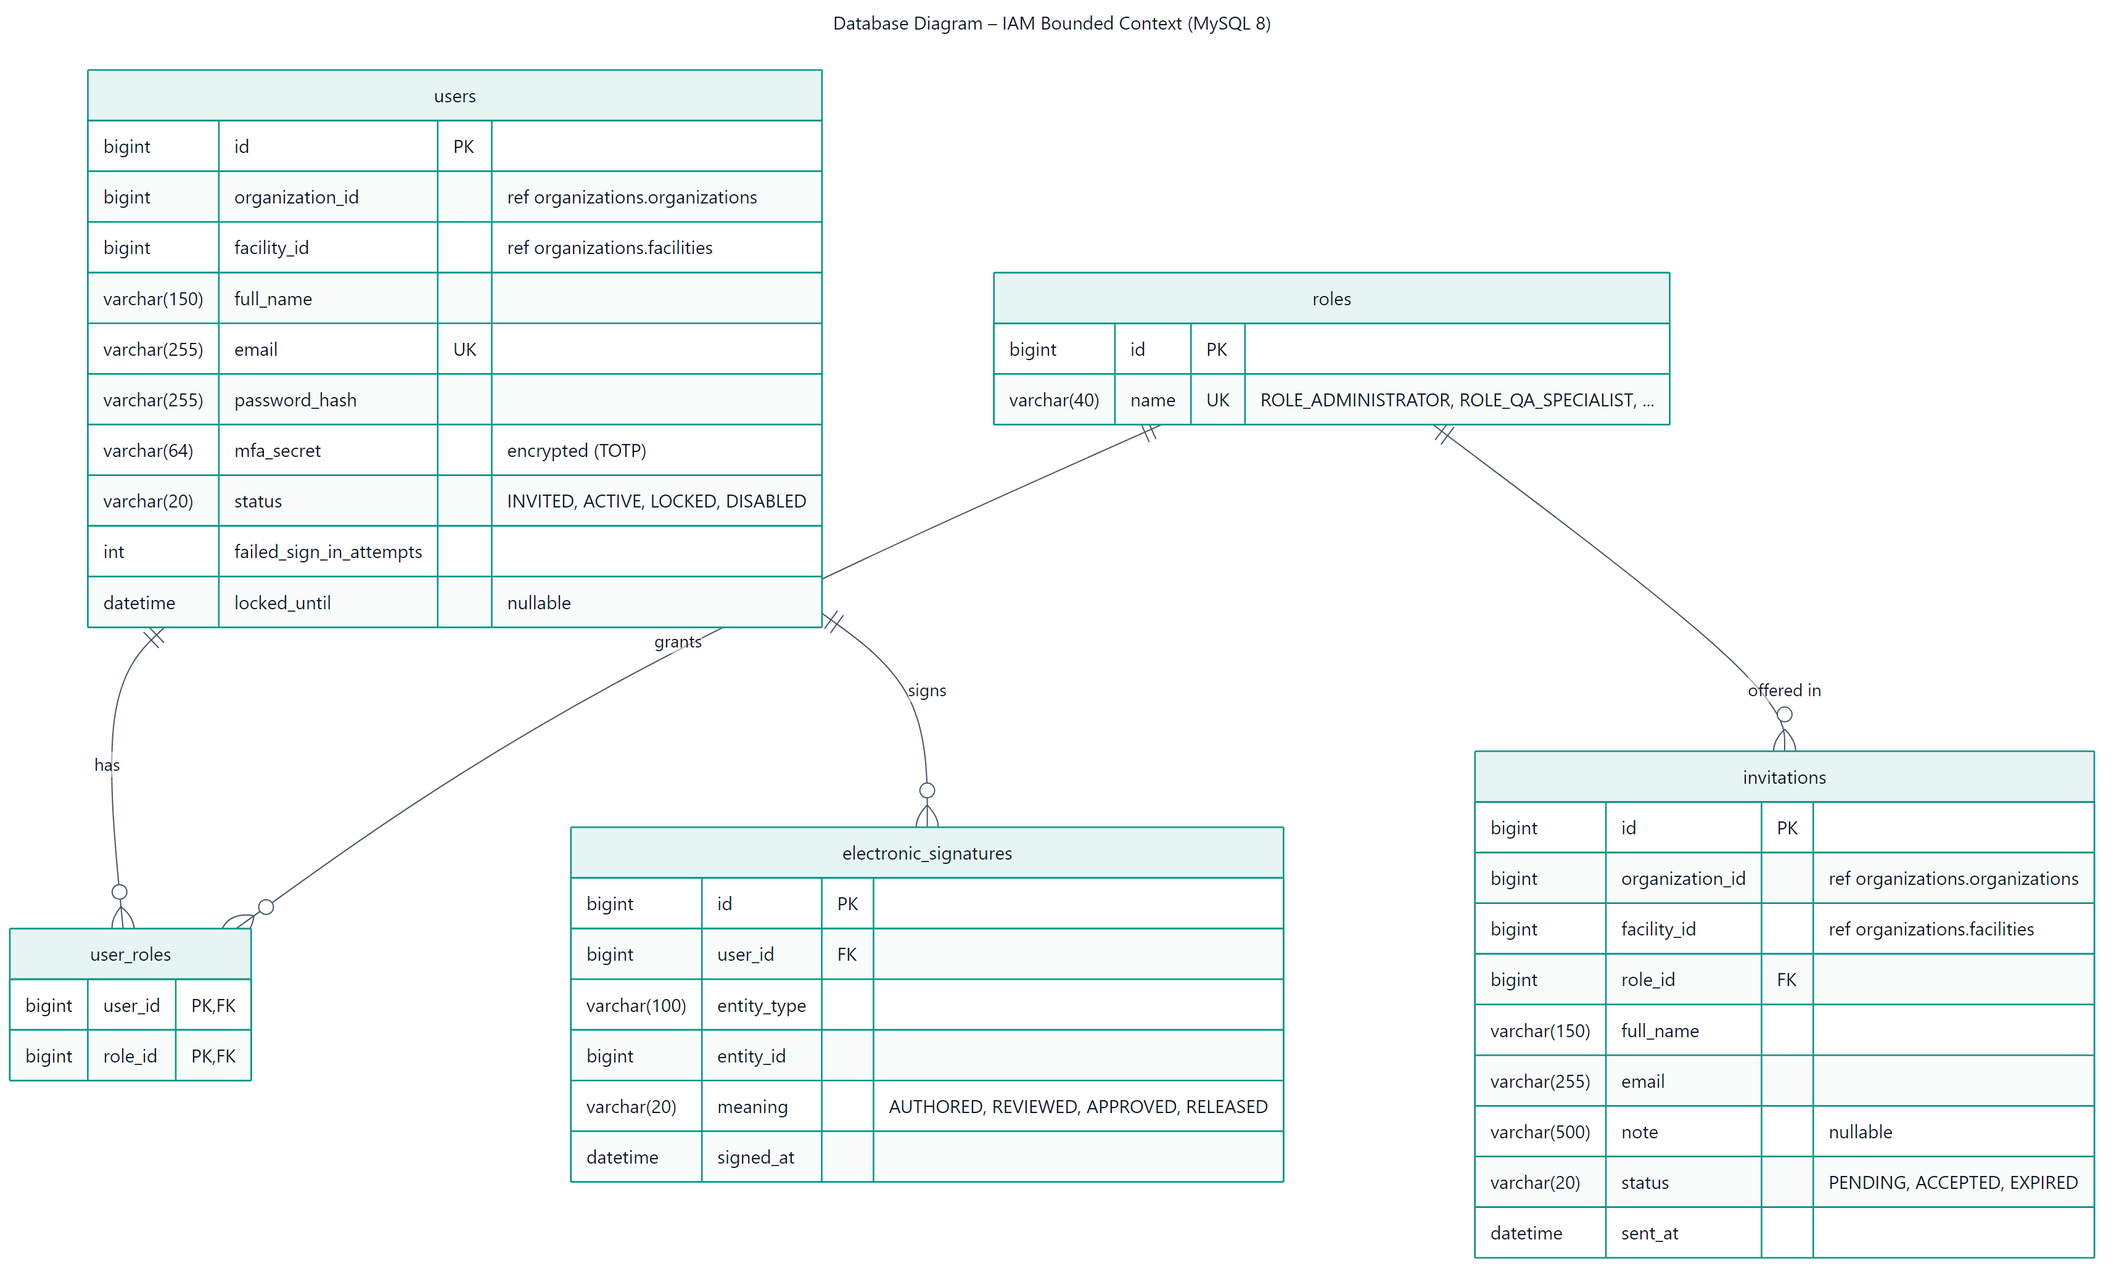
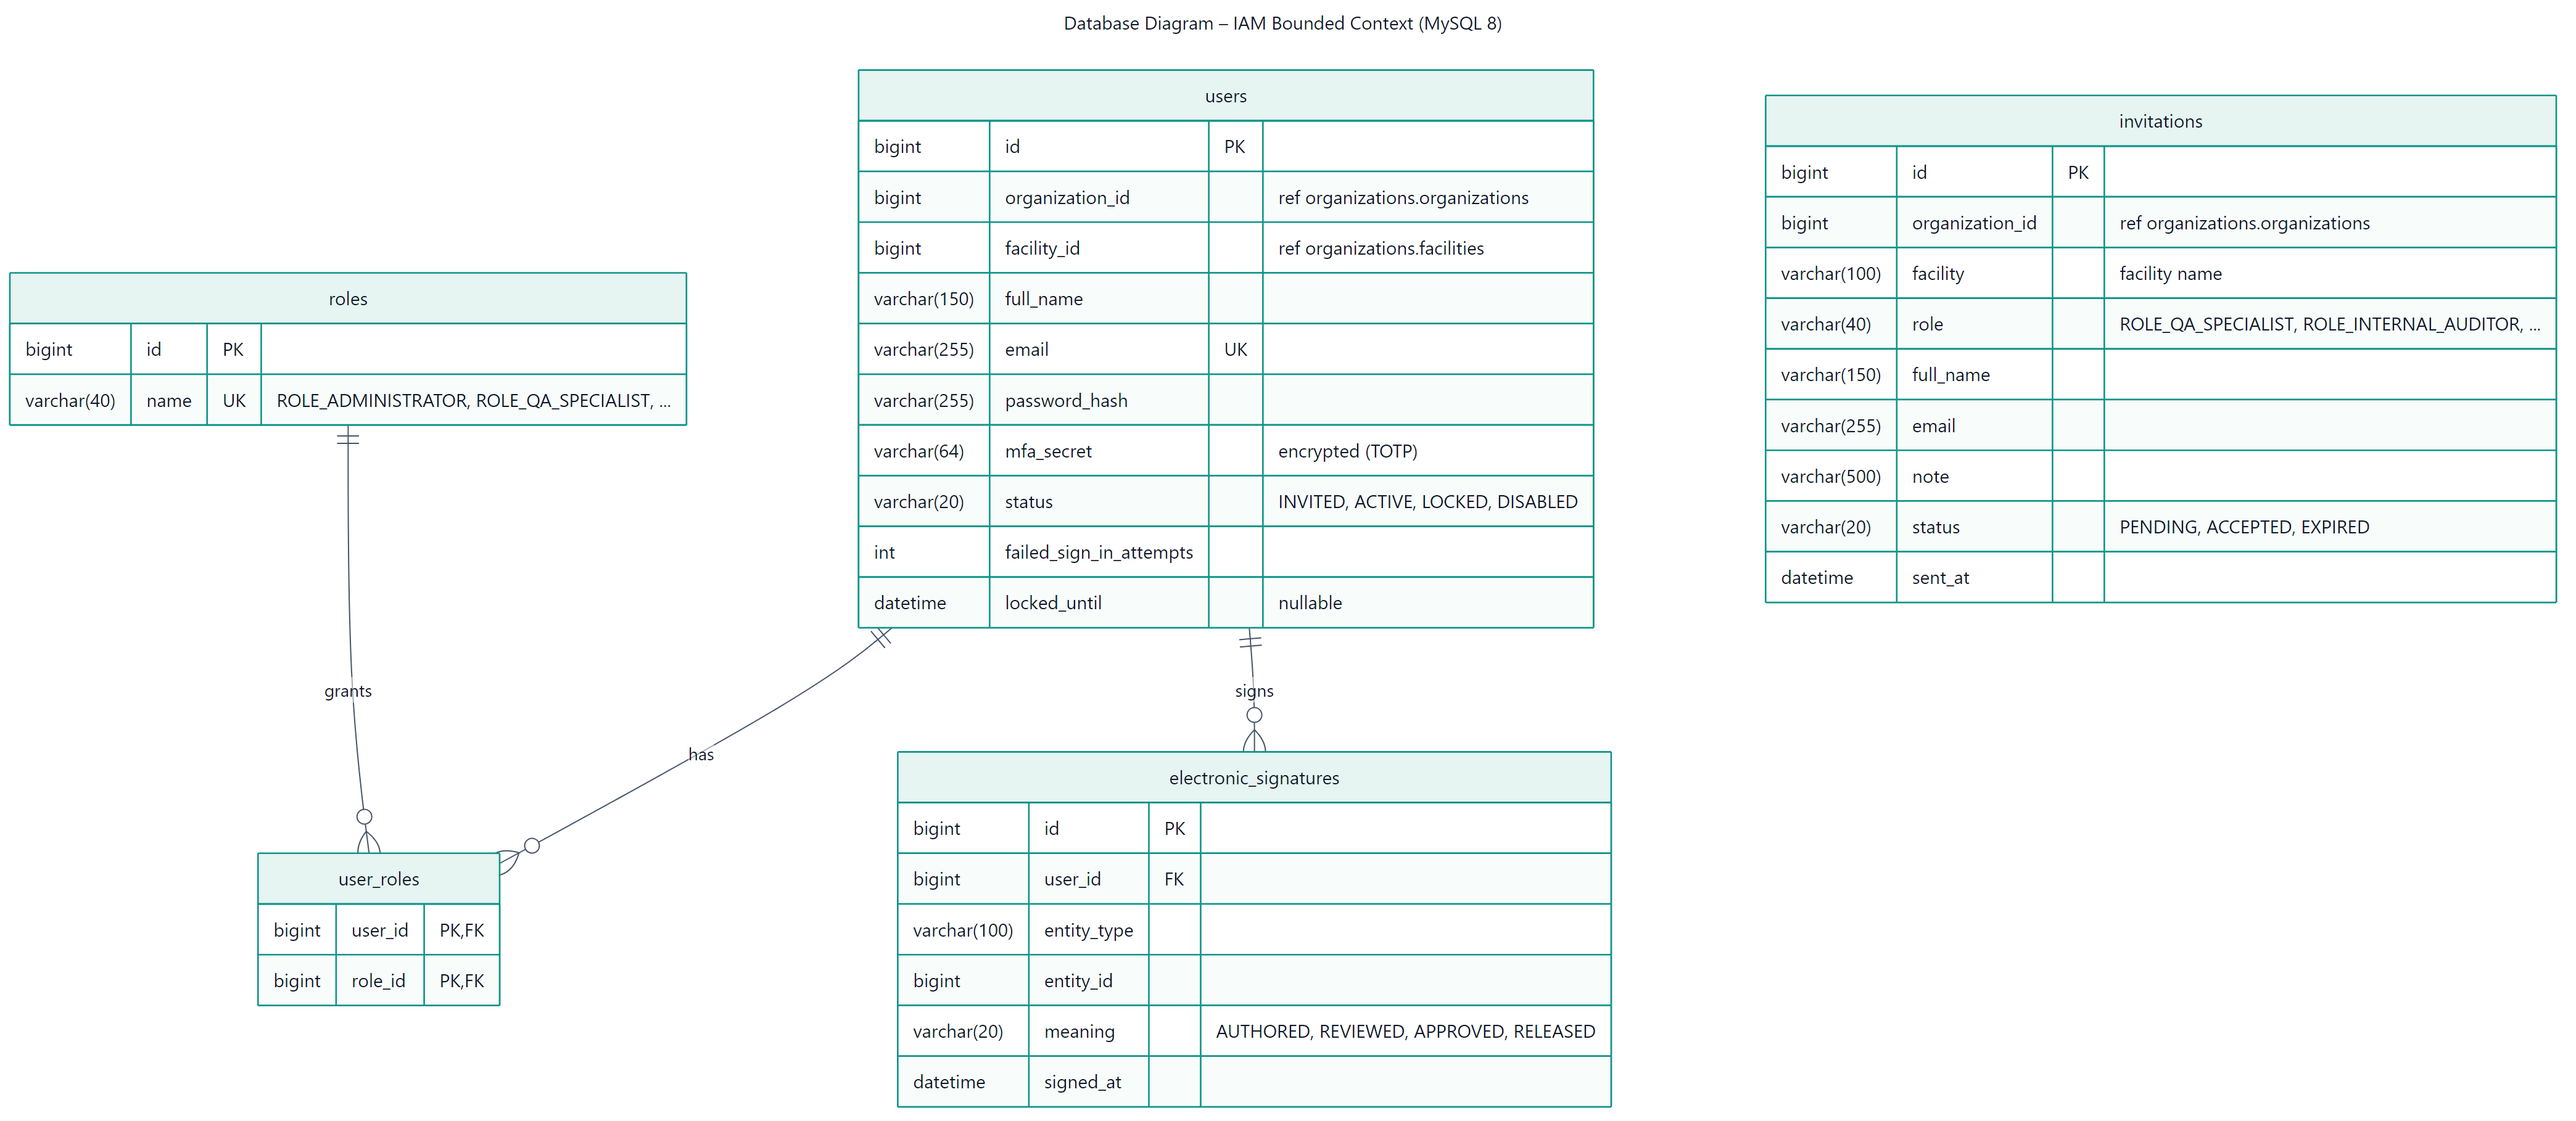
docs(report): close the sprint 3 backlog and align the quality and iam diagrams with the api

diff --git a/report/15-product-implementation-validation-and-deployment.md b/report/15-product-implementation-validation-and-deployment.md
@@ -1065,7 +1065,9 @@ En el Sprint 3 se consideraron el Website y la Web Application y, en los RESTful
 
 #### 5.2.3.3. Sprint Backlog 3
 
-El objetivo del Sprint fue entregar la primera versión desplegada de los RESTful Web Services. El Sprint Backlog 3 junta tres bloques: las mejoras del Website y de la Web Application hechas desde el 18/10 (T184 a T198), las tareas de los Web Services por Technical Story (T137 a T165) y la autenticación con JWT (TS02, T199 a T201). Una tarea está en *Done* solo cuando su rama se unió a `develop`; lo que no se termine pasa al Sprint 4. Al cierre del Sprint hay 31 tareas en *Done*, 7 en *In-Process* y 9 en *To-do*, con 177 horas estimadas en total.
+El objetivo del Sprint fue entregar la primera versión desplegada de los RESTful Web Services. El Sprint Backlog 3 junta tres bloques: las mejoras del Website y de la Web Application hechas desde el 18/10 (T184 a T198), las tareas de los Web Services por Technical Story (T137 a T165) y la autenticación con JWT (TS02, T199 a T201). Una tarea está en *Done* solo cuando su rama se unió a `develop`; lo que no se termine pasa al Sprint 4. Al cierre del Sprint hay 42 tareas en *Done*, 2 en *In-Process* y 3 en *To-do*, con 177 horas estimadas en total.
+
+![Sprint Backlog 3 en Jira](assets/img/chapter5/evidencia/jira-sprint3.png)
 
 **Enlace al board en Jira:** https://doofplus.atlassian.net/jira/software/projects/UPC/boards/3
 
@@ -1077,7 +1079,7 @@ El objetivo del Sprint fue entregar la primera versión desplegada de los RESTfu
 | TS12 | API de organizaciones y consultas de contacto | T138 | Organizations: servicios de aplicación | Implementar los command services y query services de registro de la organización, perfiles y consultas de contacto. | 3 | Cobades Zamora, Yhoshua Hebert | Done |
 | TS12 | API de organizaciones y consultas de contacto | T139 | Organizations: endpoints REST | Exponer /api/v1/organizations, /api/v1/user-profiles y POST /api/v1/contact-inquiries con resources, assemblers y documentación OpenAPI. | 4 | Cobades Zamora, Yhoshua Hebert | Done |
 | TS12 | API de organizaciones y consultas de contacto | T140 | Organizations: fachada ACL | Implementar OrganizationsContextFacade para que Subscriptions consulte la organización sin acceder a su modelo. | 2 | Cobades Zamora, Yhoshua Hebert | To-do |
-| TS12 | API de organizaciones y consultas de contacto | T141 | Web App: registro de organización y contacto contra el API | Reemplazar la Fake API en el módulo organizations de la Web Application (US50, US04). | 3 | Cobades Zamora, Yhoshua Hebert | To-do |
+| TS12 | API de organizaciones y consultas de contacto | T141 | Web App: registro de organización y contacto contra el API | Reemplazar la Fake API en el módulo organizations de la Web Application (US50, US04). | 3 | Cobades Zamora, Yhoshua Hebert | Done |
 | TS09 | API de suscripciones y pagos | T142 | Subscriptions: revisión e integración en develop | Revisar feature/subscriptions, corregir observaciones y fusionarla en develop. | 2 | Rojas Ambicho, Nestor Daniel | Done |
 | TS09 | API de suscripciones y pagos | T143 | Subscriptions: pago con Niubiz | Agregar el pago de la suscripción: POST /api/v1/subscriptions/{id}/payments con el sandbox de Niubiz; responde 503 si la pasarela no está disponible y no registra el pago. | 5 | Rojas Ambicho, Nestor Daniel | Done |
 | TS09 | API de suscripciones y pagos | T144 | Subscriptions: renovación | Agregar la renovación de la suscripción (US53) junto a la activación y cancelación existentes. | 2 | Rojas Ambicho, Nestor Daniel | Done |
@@ -1087,20 +1089,20 @@ El objetivo del Sprint fue entregar la primera versión desplegada de los RESTfu
 | TS07 | API de operaciones de laboratorio | T148 | Manufacturing: endpoints de productos y fórmulas | Servicios y endpoints /api/v1/products y /api/v1/master-formulas con documentación OpenAPI (US35, US36). | 4 | Zavaleta Gutierrez, Rodolfo Martin | Done |
 | TS07 | API de operaciones de laboratorio | T149 | IoT Monitoring: equipos, calibraciones y mantenimientos | Servicios y endpoints /api/v1/equipment con calibraciones y mantenimientos; DELETE responde 409 si el equipo está asociado a un lote en curso (US37, US38, US39). | 5 | Angulo Ramírez, Marcelo Martín | In-Process |
 | TS07 | API de operaciones de laboratorio | T150 | IoT Monitoring: sensores y telemetría | Servicios y endpoints /api/v1/sensors para el inventario de sensores (US23) y POST /api/v1/telemetry para recibir las lecturas de ThingsBoard con X-Api-Key; una lectura fuera de rango abre una alerta. | 3 | Angulo Ramírez, Marcelo Martín | Done |
-| TS07 | API de operaciones de laboratorio | T151 | Web App: productos, fórmulas y equipos contra el API | Reemplazar la Fake API en los módulos manufacturing (productos y fórmulas) e iot-monitoring (equipos y dispositivos). | 3 | Angulo Ramírez, Marcelo Martín | To-do |
+| TS07 | API de operaciones de laboratorio | T151 | Web App: productos, fórmulas y equipos contra el API | Reemplazar la Fake API en los módulos manufacturing (productos y fórmulas) e iot-monitoring (equipos y dispositivos). | 3 | Angulo Ramírez, Marcelo Martín | Done |
 | TS03 | API de trazabilidad de lotes | T152 | Manufacturing: órdenes, lotes y materias primas (dominio) | Implementar los aggregates ProductionOrder, ProductionBatch y RawMaterialLot con sus estados y repositorios JPA. | 5 | Zavaleta Gutierrez, Rodolfo Martin | Done |
 | TS03 | API de trazabilidad de lotes | T153 | Manufacturing: endpoints de órdenes y lotes | Endpoints /api/v1/production-orders y /api/v1/production-batches: registro (409 si el número de lote ya existe), cambio de estado con los estados de la Web Application (start, resume, release y progreso), GET /{batchId} con su línea de tiempo, y registro de las incidencias, eventos y consumos de cada lote (US57, US14, US15, US16). | 5 | Zavaleta Gutierrez, Rodolfo Martin | Done |
 | TS03 | API de trazabilidad de lotes | T154 | Manufacturing: recepción y asociación de materias primas | Endpoints de recepción de materias primas, que dejan el lote en SAMPLING/PENDING, y su asociación a un lote de producción (US58, US17). | 3 | Cobades Zamora, Yhoshua Hebert | Done |
 | TS03 | API de trazabilidad de lotes | T155 | Manufacturing: incidencias y escalamiento a Calidad | Registrar incidencias de un lote y publicar el domain event que Quality usa para abrir una desviación (US56). | 3 | Angulo Ramírez, Marcelo Martín | In-Process |
 | TS03 | API de trazabilidad de lotes | T156 | Manufacturing: fachada ACL | Implementar ManufacturingContextFacade para que Quality e IoT Monitoring consulten lotes y equipos. | 2 | Cobades Zamora, Yhoshua Hebert | To-do |
-| TS03 | API de trazabilidad de lotes | T157 | Web App: trazabilidad de lotes contra el API | Reemplazar la Fake API en el módulo manufacturing (órdenes, lotes, materias primas e incidencias). | 4 | Cobades Zamora, Yhoshua Hebert | To-do |
-| TS10 | API de documentación de calidad | T158 | Quality: servicios de documentación | Implementar los command y query services de QualityDocument: registro, nuevas versiones y aprobación (US09, US10, US12, US13). | 4 | Flores Martinez, Ricardo Andres | In-Process |
+| TS03 | API de trazabilidad de lotes | T157 | Web App: trazabilidad de lotes contra el API | Reemplazar la Fake API en el módulo manufacturing (órdenes, lotes, materias primas e incidencias). | 4 | Cobades Zamora, Yhoshua Hebert | Done |
+| TS10 | API de documentación de calidad | T158 | Quality: servicios de documentación | Implementar los command y query services de QualityDocument: registro, nuevas versiones y aprobación (US09, US10, US12, US13). | 4 | Flores Martinez, Ricardo Andres | Done |
 | TS10 | API de documentación de calidad | T159 | Quality: endpoints de documentación | Implementar QualityDocumentController: POST /api/v1/quality-documents responde 201 con la versión 1.0 y GET /{id} inexistente responde 404; documentación OpenAPI. | 3 | Flores Martinez, Ricardo Andres | Done |
-| TS10 | API de documentación de calidad | T160 | Web App: documentación de calidad contra el API | Reemplazar la Fake API en las vistas de protocolos, SOP y versiones del módulo quality. | 3 | Cobades Zamora, Yhoshua Hebert | To-do |
-| TS11 | API de desviaciones y CAPA | T161 | Quality: servicios de desviaciones y CAPA | Implementar los servicios de Deviation, CapaPlan y CapaAction: registro, causa raíz, acciones y cierre (US18, US19, US20, US21). | 5 | Flores Martinez, Ricardo Andres | In-Process |
-| TS11 | API de desviaciones y CAPA | T162 | Quality: endpoints de desviaciones y CAPA | Implementar DeviationController, CapaPlanController y CapaActionController; PATCH /api/v1/deviations/{id}/close sin causa raíz responde 422. | 4 | Flores Martinez, Ricardo Andres | In-Process |
+| TS10 | API de documentación de calidad | T160 | Web App: documentación de calidad contra el API | Reemplazar la Fake API en las vistas de protocolos, SOP y versiones del módulo quality. | 3 | Cobades Zamora, Yhoshua Hebert | Done |
+| TS11 | API de desviaciones y CAPA | T161 | Quality: servicios de desviaciones y CAPA | Implementar los servicios de Deviation, CapaPlan y CapaAction: registro, causa raíz, acciones y cierre (US18, US19, US20, US21). | 5 | Flores Martinez, Ricardo Andres | Done |
+| TS11 | API de desviaciones y CAPA | T162 | Quality: endpoints de desviaciones y CAPA | Implementar DeviationController, CapaPlanController y CapaActionController; PATCH /api/v1/deviations/{id}/close sin causa raíz responde 422. | 4 | Flores Martinez, Ricardo Andres | Done |
 | TS11 | API de desviaciones y CAPA | T163 | Quality: desviación desde incidencia de Producción | Policy que abre una desviación cuando Manufacturing escala una incidencia (US56). | 2 | Flores Martinez, Ricardo Andres | To-do |
-| TS11 | API de desviaciones y CAPA | T164 | Web App: desviaciones y CAPA contra el API | Reemplazar la Fake API en las vistas de desviaciones y CAPA del módulo quality. | 3 | Cobades Zamora, Yhoshua Hebert | To-do |
+| TS11 | API de desviaciones y CAPA | T164 | Web App: desviaciones y CAPA contra el API | Reemplazar la Fake API en las vistas de desviaciones y CAPA del módulo quality. | 3 | Cobades Zamora, Yhoshua Hebert | Done |
 | — | Tareas técnicas | T165 | Despliegue del RESTful API | Publicar el RESTful API en Render con la base de datos MySQL en Railway y la documentación Swagger accesible; configurar la URL del API en la Web Application. | 4 | Rojas Ambicho, Nestor Daniel | Done |
 | US48 | Acceso por segmento a la Web Application | T184 | Website: sección Call to action | Implementar la sección Call to action con sus estilos y sus textos en en.json y es.json. | 3 | Zavaleta Gutierrez, Rodolfo Martin | Done |
 | US48 | Acceso por segmento a la Web Application | T185 | Website: CTA por segmento y enlaces a la Web App | Mostrar un CTA por segmento y enlazar los botones de acceso y registro con el entorno correspondiente de la Web Application. | 3 | Rojas Ambicho, Nestor Daniel | Done |
@@ -1117,9 +1119,9 @@ El objetivo del Sprint fue entregar la primera versión desplegada de los RESTfu
 | — | Tareas técnicas | T196 | Web App: release v1.1.0 y despliegue en Firebase | Preparar release/v1.1.0 y publicar la Web Application en Firebase Hosting. | 2 | Cobades Zamora, Yhoshua Hebert | Done |
 | — | Tareas técnicas | T197 | Platform: configuración del proyecto y capa shared | Crear el proyecto Spring Boot con su configuración, OpenAPI y la capa shared. | 6 | Zavaleta Gutierrez, Rodolfo Martin | Done |
 | — | Tareas técnicas | T198 | Platform: shared con Result y ApplicationError | Agregar Result, ApplicationError y los assemblers de errores a la capa shared. | 6 | Rojas Ambicho, Nestor Daniel | Done |
-| TS02 | Autenticación JWT en el RESTful API | T199 | IAM: dominio y persistencia de User y Role | Implementar los aggregates User y Role con sus repositorios JPA y la carga inicial de roles. | 10 | Cobades Zamora, Yhoshua Hebert | In-Process |
-| TS02 | Autenticación JWT en el RESTful API | T200 | IAM: sign-up y sign-in con JWT | Exponer sign-up y sign-in que devuelven un JWT y filtrar las rutas por rol. | 10 | Cobades Zamora, Yhoshua Hebert | In-Process |
-| TS02 | Autenticación JWT en el RESTful API | T201 | Web App: sign-in contra el API | Iniciar sesión en la Web Application contra el API y enviar el token en cada petición. | 6 | Cobades Zamora, Yhoshua Hebert | To-do |
+| TS02 | Autenticación JWT en el RESTful API | T199 | IAM: dominio y persistencia de User y Role | Implementar los aggregates User y Role con sus repositorios JPA y la carga inicial de roles. | 10 | Cobades Zamora, Yhoshua Hebert | Done |
+| TS02 | Autenticación JWT en el RESTful API | T200 | IAM: sign-up y sign-in con JWT | Exponer sign-up y sign-in que devuelven un JWT y filtrar las rutas por rol. | 10 | Cobades Zamora, Yhoshua Hebert | Done |
+| TS02 | Autenticación JWT en el RESTful API | T201 | Web App: sign-in contra el API | Iniciar sesión en la Web Application contra el API y enviar el token en cada petición. | 6 | Cobades Zamora, Yhoshua Hebert | Done |
 
 #### 5.2.3.4. Development Evidence for Sprint Review
 

diff --git a/report/14-product-design.md b/report/14-product-design.md
@@ -1239,6 +1239,7 @@ El diseño orientado a objetos traduce los aggregates del Design-Level EventStor
 - Los nombres siguen la Google Java Style Guide: clases en PascalCase, atributos y métodos en camelCase y constantes de enumeraciones en UPPER_SNAKE_CASE. Los getters se generan con Lombok y no se muestran.
 - Los cambios de estado se solicitan con commands (`CreateBatchCommand`, `CloseDeviationCommand`, etc.) atendidos por command services, que devuelven `Result<T, ApplicationError>` en lugar de lanzar excepciones; las consultas usan query services. Los repositorios son interfaces del dominio implementadas con Spring Data JPA en la capa de infraestructura.
 - Las relaciones entre contextos se modelan por identificador o por código de negocio (`userId`, `batchCode`) y no por referencia directa, respetando los límites de cada bounded context.
+- En Quality & Compliance, las personas (autor, responsable, analista, revisor, actor) se guardan por su nombre, porque la Web Application muestra el nombre y solo los administradores pueden leer los usuarios de IAM; los registros relacionados se enlazan por su código (`sourceDeviation`, `capaCode`, `auditCode`), por lo que `CapaAction` y `AuditFinding` son aggregates propios. En IAM, la invitación guarda la sede por su nombre y el rol como un valor de `Roles`.
 - Los diagramas reflejan el modelo que implementan la Web Application y el RESTful API. Respecto de los aggregates del Design-Level EventStorming, `Plant` pasó a llamarse `Facility`, `IoTDevice` y `TelemetryReading` pasaron a `Sensor` y `Reading` (los límites de cada sensor reemplazan a las reglas de alerta), `BatchReview` y `ReleaseCertificate` se integraron en `BatchRelease`, las versiones de un documento se guardan como filas de `QualityDocument`, `AuditTrailEntry` pasó a `AuditEvent` y el dictamen de los insumos quedó en el estado de `RawMaterialLot`. Se agregaron `Invitation`, `AdministrativeActivity`, `Operation`, `Evidence`, `CapaPlan`, `CollaborationTask`, `TaskComment` y `TraceabilityGap`, que usa la Web Application.
 
 ### 4.7.1. Class Diagrams

diff --git a/report/front-matter/02-version-history.md b/report/front-matter/02-version-history.md
@@ -79,5 +79,7 @@
 | 3.0.7 | 14/11/2026 | Rojas Ambicho, Nestor Daniel | Capítulo V: en el Sprint Backlog 3, T145 pasa a *Done*: la Web Application usa el API para planes, suscripciones, pagos y cambio de plan. |
 | 3.0.8 | 15/11/2026 | Rojas Ambicho, Nestor Daniel | Capítulo V: sección 5.4 con el enlace al video About-the-Product. |
 | 3.1.0 | 15/11/2026 | Cobades Zamora, Yhoshua Hebert | Capítulo V con lo publicado para el AV2: la Web Application `v1.4.0` usa el API en los seis bounded contexts y ya no usa la Fake API (5.1.4 y 5.2.3.5), la documentación de los RESTful Web Services `v1.3.0` con sus 134 operaciones (5.2.3.6) y las versiones publicadas del Website, la Web Application y los Web Services (5.2.3.7). |
+| 3.1.1 | 15/11/2026 | Cobades Zamora, Yhoshua Hebert | Capítulo V: en el Sprint Backlog 3 pasan a *Done* las tareas de la Web Application contra el API (T141, T151, T157, T160 y T164), las de Quality & Compliance (T158, T161 y T162) y la autenticación JWT (T199, T200 y T201), con la captura del board del Sprint 3 en Jira. |
+| 3.2.0 | 15/11/2026 | Cobades Zamora, Yhoshua Hebert | Capítulo IV: diagramas de clases y de base de datos de Quality & Compliance y de IAM alineados con el RESTful API: personas por nombre, registros relacionados por código, `CapaAction` y `AuditFinding` como aggregates e invitaciones con la sede por nombre y el rol como valor de `Roles`. |
 
 ---
